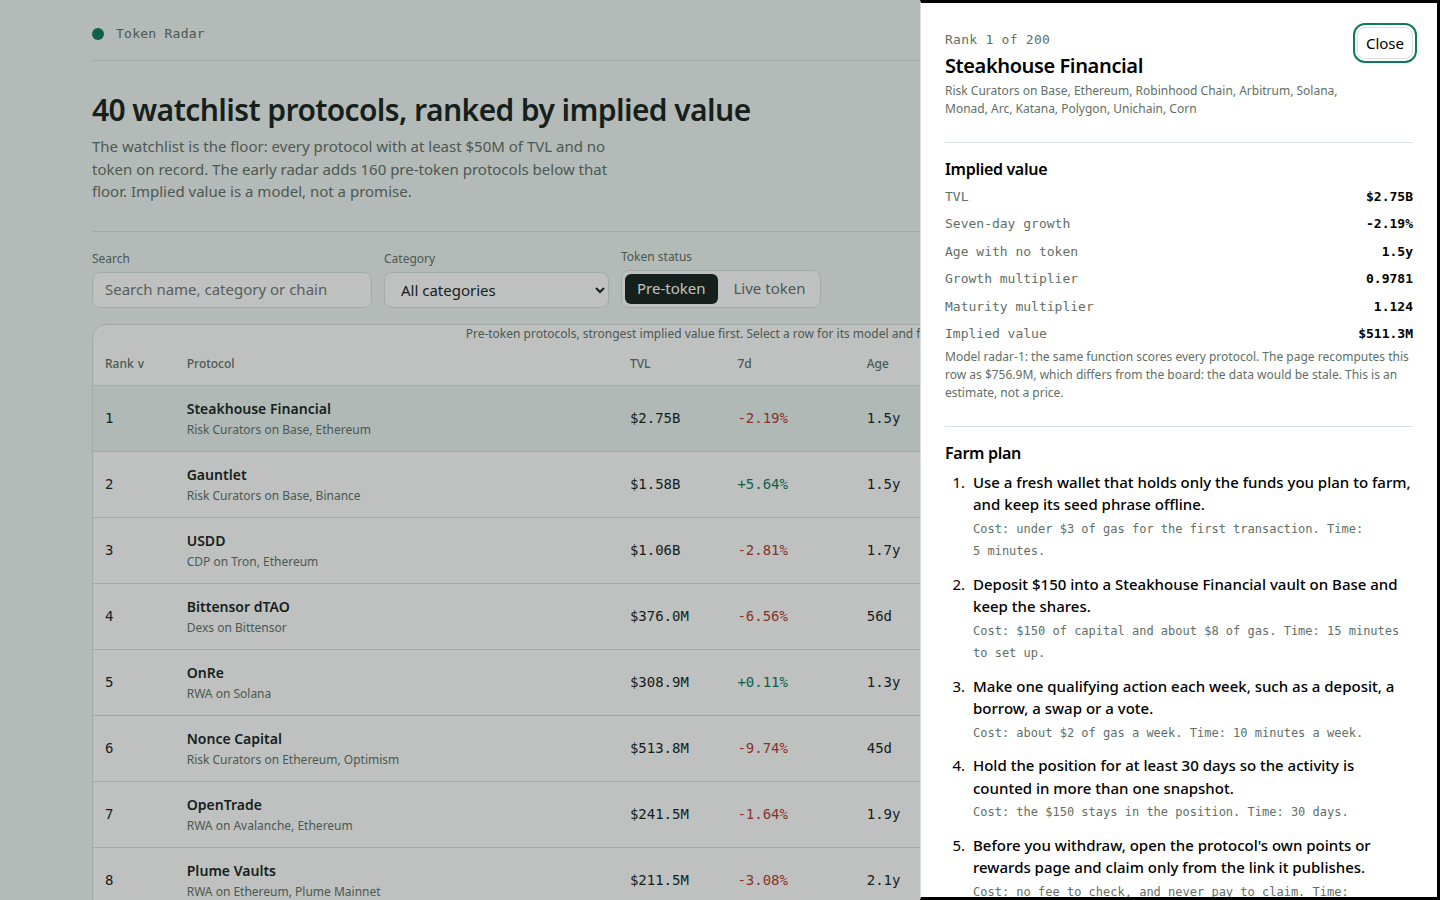
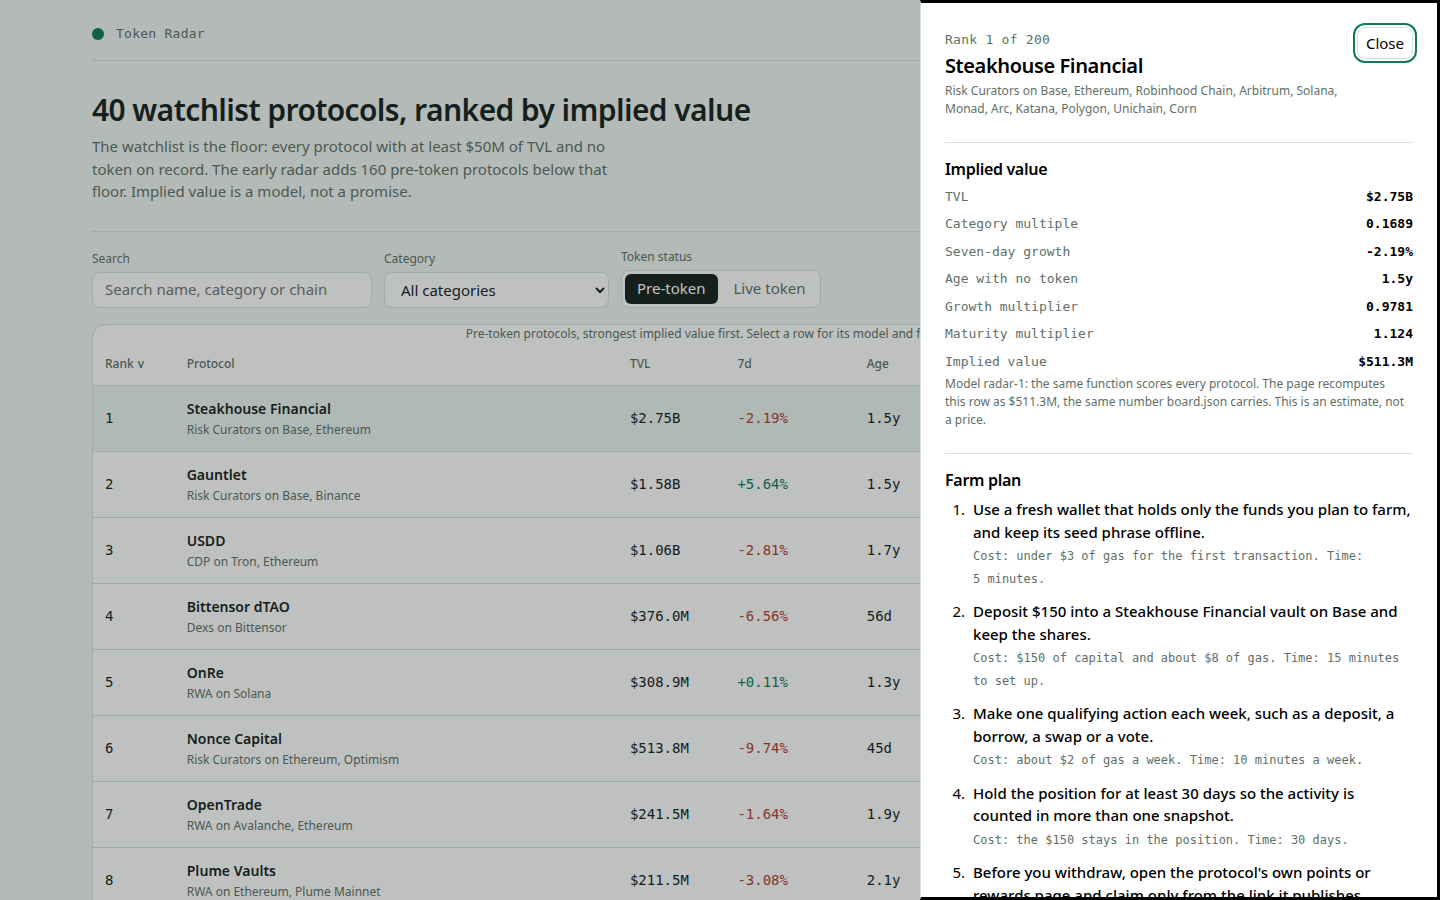
Detail recompute uses each row's category median multiple (v1 model)
The dashboard recomputed every row with the flat 0.25 fallback, so the
detail notice claimed all 200 rows differed from the board ('the data
would be stale') - rank 1 showed $756.9M against the board's $511.3M.
v1 scores with the category median mcap/TVL multiple, carried per row
in board.json but stripped by radarRow(). Carry base_multiple into the
dashboard rows, recompute from it (exact match on all 200 rows), state
the category median in the model formula, and show it in the detail
equation. Board data unchanged; detail screenshot re-shot.

Changed region(s): [[0.6562, 0.2178, 1.0, 1.0]]

diff --git a/dashboard/app.js b/dashboard/app.js
@@ -29,11 +29,15 @@
   // The model in one function: the page recomputes a row from the snapshot figures and checks the
   // number board.json carries, so the page's code and the board's data are visibly the same arithmetic.
   function impliedOf(row, model) {
+    // v1 scores each row with its own category median multiple (the global median when the
+    // category has fewer than three tokened peers); the top-level base_multiple is only the
+    // fallback for rows written before the per-row multiple was carried.
+    var base = (row.base_multiple !== undefined && row.base_multiple !== null) ? row.base_multiple : model.base_multiple;
     var growth = Math.min(model.growth_cap, Math.max(model.growth_floor, row.change_7d === null || row.change_7d === undefined ? 0 : row.change_7d));
     var growthMult = 1 + (growth / 100) * model.growth_weight;
     var age = row.age_days === null || row.age_days === undefined ? model.unknown_age_days : row.age_days;
     var maturity = model.maturity_floor + (Math.min(Math.max(age, 0), model.maturity_days) / model.maturity_days) * model.maturity_range;
-    return Math.max(1, Math.round(row.tvl_usd * model.base_multiple * growthMult * maturity));
+    return Math.max(1, Math.round(row.tvl_usd * base * growthMult * maturity));
   }
 
   function el(tag, attrs) {
@@ -287,9 +291,9 @@
       el('h2', { text: 'How implied value is computed' }),
       el('p', { class: 'sub', text: 'Every row is scored by one function of the snapshot figures. No protocol name is special-cased, and no row is hand-picked.' }),
       el('div', { class: 'formula' },
-        'implied = round( tvl_usd x ' + m.base_multiple + ' x (1 + clamp(change_7d, ' + m.growth_floor + ', ' + m.growth_cap + ') / 100 x ' + m.growth_weight + ') x (' + m.maturity_floor + ' + min(age_days, ' + m.maturity_days + ') / ' + m.maturity_days + ' x ' + m.maturity_range + ') )'
+        'implied = round( tvl_usd x category_median_multiple x (1 + clamp(change_7d, ' + m.growth_floor + ', ' + m.growth_cap + ') / 100 x ' + m.growth_weight + ') x (' + m.maturity_floor + ' + min(age_days, ' + m.maturity_days + ') / ' + m.maturity_days + ' x ' + m.maturity_range + ') )'
       ),
-      el('p', { class: 'sub', text: 'TVL and seven-day growth come from the snapshot. Age is the time since the protocol was first listed, the best record of how long it has run with no token; an unlisted age uses ' + m.unknown_age_days + ' days. The early radar is every pre-token protocol below the watchlist floor, by TVL, and the live-token protocols are set aside with their market caps shown.' })
+      el('p', { class: 'sub', text: 'The base multiple is the category\u2019s median market-cap-to-TVL ratio across its tokened peers; a category with fewer than three tokened peers uses the global median instead. TVL and seven-day growth come from the snapshot. Age is the time since the protocol was first listed, the best record of how long it has run with no token; an unlisted age uses ' + m.unknown_age_days + ' days. The early radar is every pre-token protocol below the watchlist floor, by TVL, and the live-token protocols are set aside with their market caps shown.' })
     );
   }
 
@@ -315,6 +319,7 @@
       el('h3', { text: 'Implied value' }),
       el('div', { class: 'equation' },
         el('div', null, el('span', { text: 'TVL' }), el('b', { class: 'num', text: fmtUsd(row.tvl_usd) })),
+        el('div', null, el('span', { text: 'Category multiple' }), el('b', { class: 'num', text: (row.base_multiple !== undefined && row.base_multiple !== null ? row.base_multiple : DATA.model.base_multiple).toFixed(4) })),
         el('div', null, el('span', { text: 'Seven-day growth' }), el('b', { class: 'num', text: fmtPct(row.change_7d) })),
         el('div', null, el('span', { text: 'Age with no token' }), el('b', { class: 'num', text: fmtAge(row.age_days) })),
         el('div', null, el('span', { text: 'Growth multiplier' }), el('b', { class: 'num', text: String(row.growth_multiplier) })),

diff --git a/lib/model.ts b/lib/model.ts
@@ -118,6 +118,7 @@ export interface RadarRow {
   listed_at: string | null;
   age_days: number | null;
   implied_value_usd: number;
+  base_multiple: number;
   growth_multiplier: number;
   maturity_multiplier: number;
 }
@@ -418,6 +419,7 @@ export function radarRow(row: BoardRow): RadarRow {
     listed_at: row.listed_at,
     age_days: row.age_days,
     implied_value_usd: row.implied_value_usd,
+    base_multiple: row.model.base_multiple,
     growth_multiplier: row.model.growth_multiplier,
     maturity_multiplier: row.model.maturity_multiplier,
   };
